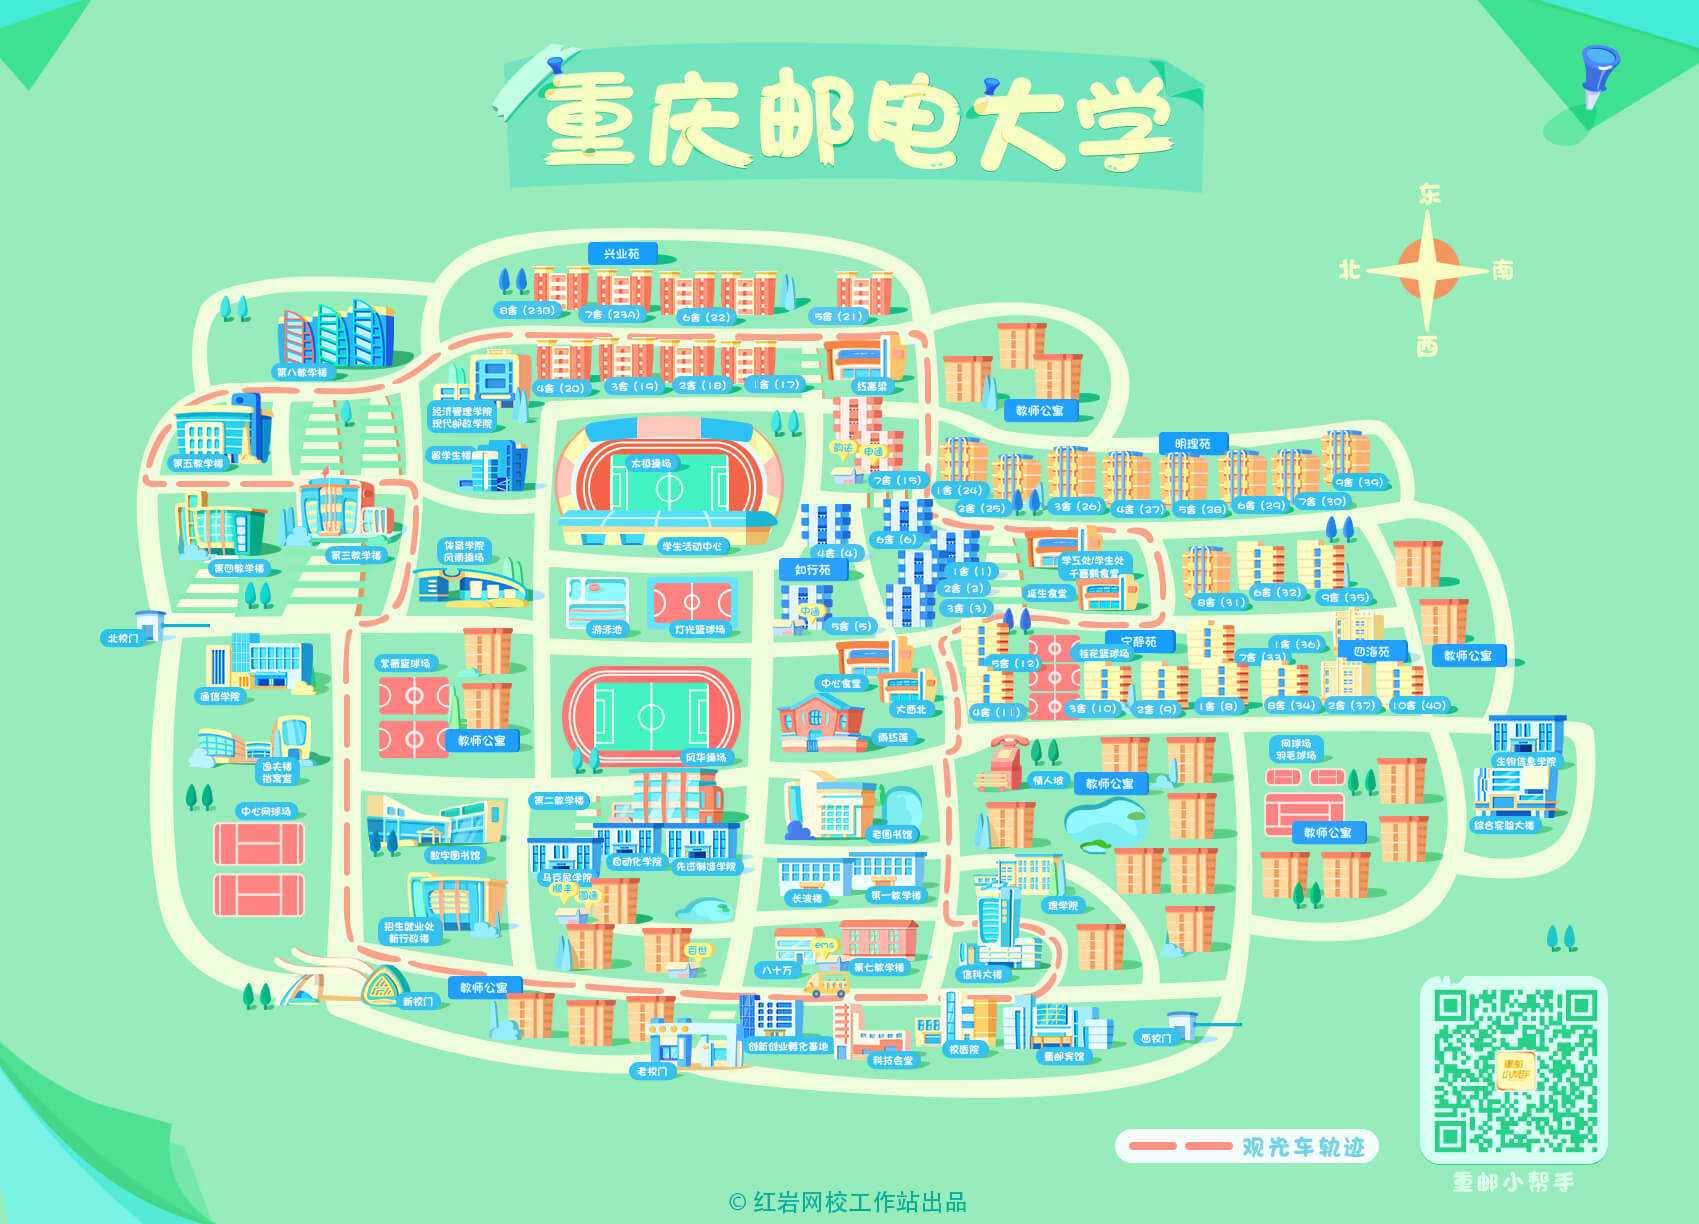
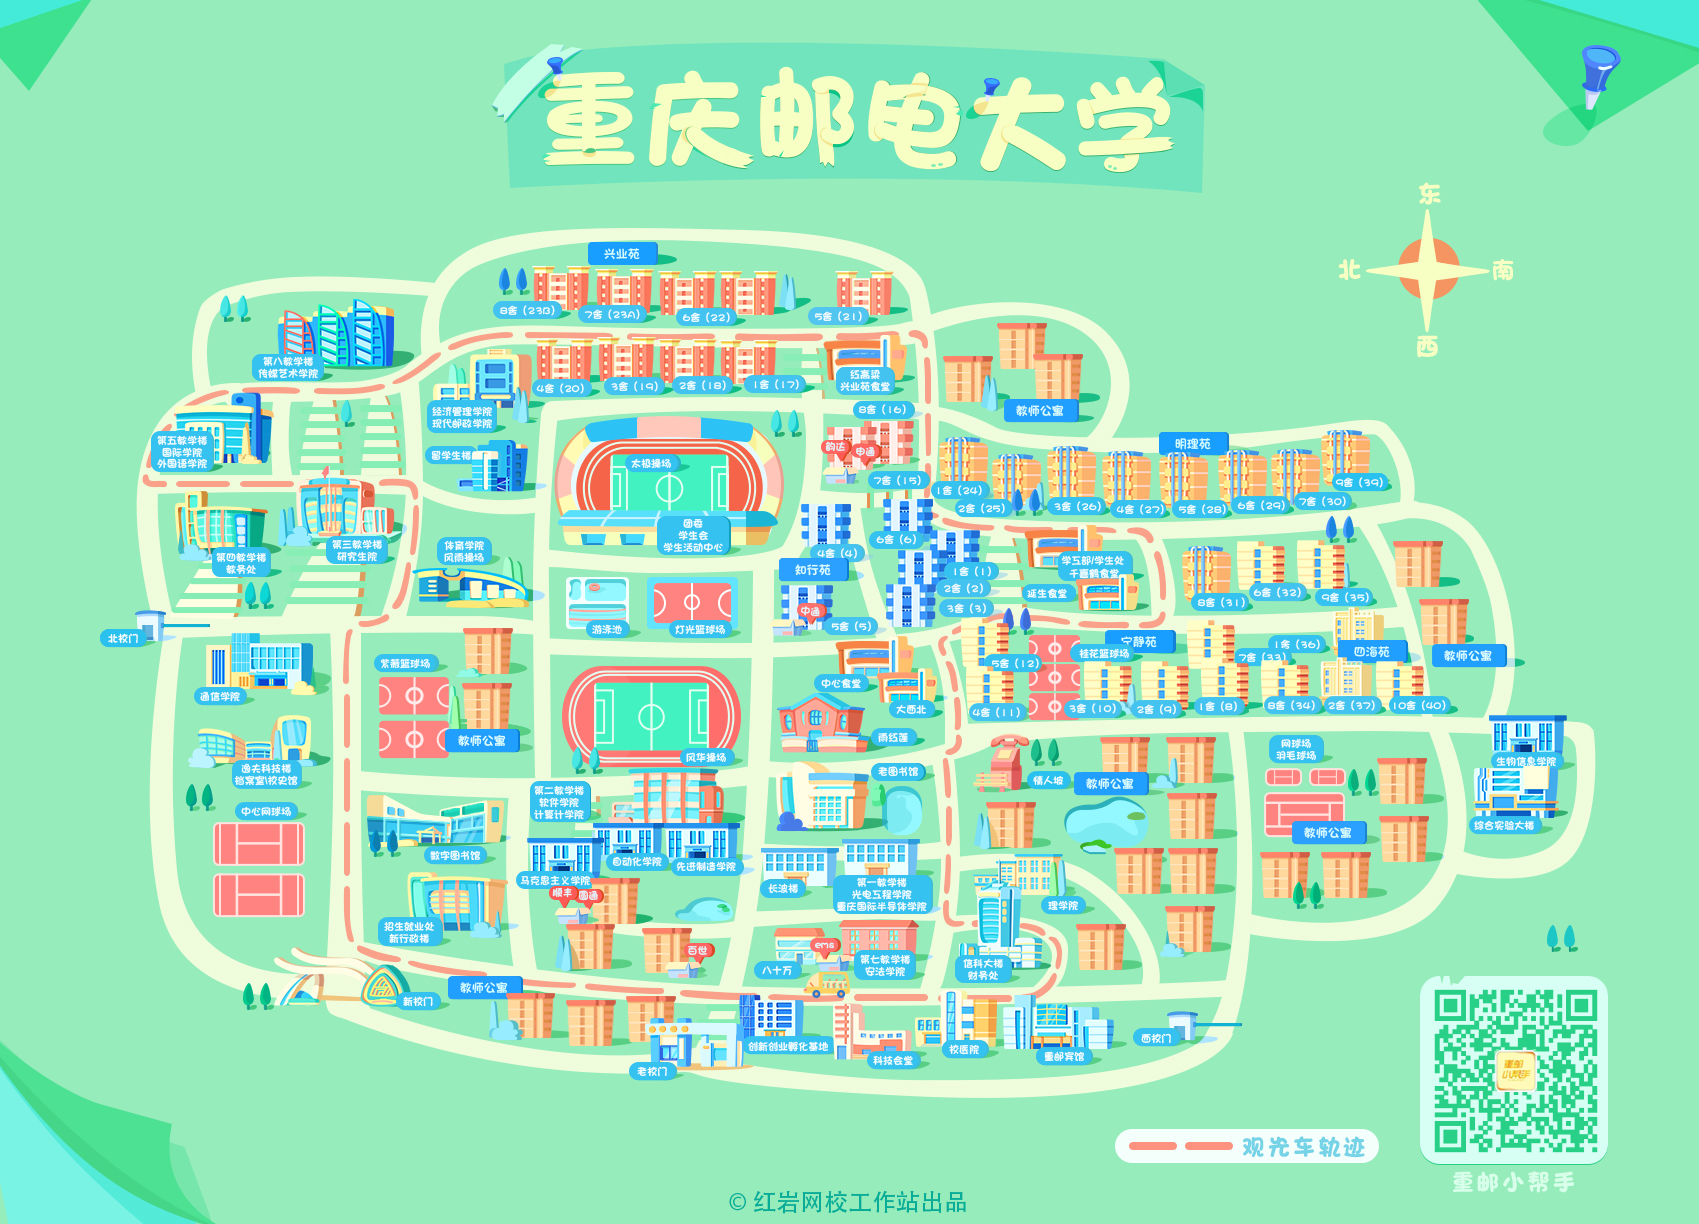
youxiu

diff --git a/src/components/Map/Map.vue b/src/components/Map/Map.vue
@@ -182,7 +182,7 @@ export default {
         },
         {
           name: '16栋',
-          position: [338, 162],
+          position: [348, 143],
         },
         {
           name: '24栋',
@@ -301,6 +301,10 @@ export default {
           position: [325, 119],
         },
         {
+          name: '兴业苑食堂',
+          position: [325, 119],
+        },
+        {
           name: '理学院',
           position: [371, 278],
         },
@@ -342,6 +346,14 @@ export default {
         },
         {
           name: '红岩网校',
+          position: [249, 169],
+        },
+        {
+          name: '团委',
+          position: [249, 169],
+        },
+        {
+          name: '学生会',
           position: [249, 169],
         },
         {
@@ -870,7 +882,7 @@ export default {
       }
     },
     addFlag(position) {
-      // console.log(position.left, position.top)
+      console.log(position.left, position.top)
       // 防止重复
       if (this.flags.some(flag => flag.left === position.left && flag.top === position.top)) return
       this.flags.push(position)

diff --git a/src/components/base/Carousel.vue b/src/components/base/Carousel.vue
@@ -2,11 +2,12 @@
   <div class="all">
     <lunbo :imglist="img.map(img => ({ imgsrc: img }))" class="lunbo" />
     <div class="info">
-        <div>{{canteen.title}}：</div>
+        <div class="tit">{{canteen.title}}：</div>
         <p>
           {{canteen.content[0]}}<br />
           {{canteen.content[1]}}<br />
           {{canteen.content[2]}}</p>
+        <div class="from">图片来源于宿管会</div>
     </div>
   </div>
 </template>
@@ -110,18 +111,27 @@ export default {
     top: 338px;
     text-align: left;
     margin: 0 auto;
-    div {
+    .tit {
         font-size: 18px;
         color: rgb(35, 72, 179);
         margin-bottom: 20px;
     }
     p {
       height: auto;
-      padding-bottom: 10px;
-      position: relative;
       font-size: 14px;
       font-family: '微软雅黑';
       color: #124ce3;
+      padding-bottom: 10px;
+    }
+    .from {
+      position: absolute;
+      bottom: 7px;
+      left: 0;
+      right: 0;
+      text-align: center;
+      font-size: 14px;
+      font-family: '微软雅黑';
+      color: #fff;
     }
 }
 </style>

diff --git a/src/views/raider/Public.vue b/src/views/raider/Public.vue
@@ -42,6 +42,11 @@
                     <span>重庆邮电大学就业中心</span>
                     <p>重庆邮电大学就业中心官方微信，实时发布校内招聘信息，就业动态等相关信息。</p>
                 </li>
+                <li class="content">
+                    <div class="img9"></div>
+                    <span>重庆邮电大学宿管会</span>
+                    <p>面向全校学生，提供最优质的服务和最新的校园动态，及时为同学推送有关宿舍的信息以及通知，为同学解决有关宿舍方面的问题，展现宿舍风采。</p>
+                </li>
       </div>
     </scroll-bar>
   </Frame>
@@ -167,6 +172,15 @@ export default {
   height: 204px;
   margin-top: 20px;
     background-image: url(../../assets/img/Strategy/gongzhonghao/img8.jpg);
+  background-size: 100% 100%;
+}
+.img9 {
+  margin: 27px;
+  border: 2px solid #0235c7;
+  width: 204px;
+  height: 204px;
+  margin-top: 20px;
+    background-image: url(../../assets/img/Strategy/gongzhonghao/img9.jpg);
   background-size: 100% 100%;
 }
   }

diff --git a/public/index.html b/public/index.html
@@ -7,15 +7,7 @@
     <link rel="icon" href="<%= BASE_URL %>favicon.ico">
     <link rel="preload" href="font.woff2" as="font">
     <title>邮你造未来 | 2019 迎新网</title>
-    <!-- Global site tag (gtag.js) - Google Analytics -->
-    <script async src="https://www.googletagmanager.com/gtag/js?id=UA-145852410-2"></script>
-    <script>
-      window.dataLayer = window.dataLayer || [];
-      function gtag(){dataLayer.push(arguments);}
-      gtag('js', new Date());
-
-      gtag('config', 'UA-145852410-2');
-    </script>
+    <script type="text/javascript" src="http://tajs.qq.com/stats?sId=66465052" charset="UTF-8"></script>
     <script>
       if (/( (iPhone) | (Android) )/.test(navigator.userAgent)) {
         window.location.href = 'https://wx.idsbllp.cn/game/welcome2019/mobile'

diff --git a/src/views/data/Source.vue b/src/views/data/Source.vue
@@ -13,6 +13,7 @@
       <scroll-bar class="scroll-bar">
         <div class="chart-wrapper">
           <v-chart :options="opt" />
+          <div class="from">数据来源于招生办</div>
         </div>
       </scroll-bar>
     <!-- </div> -->
@@ -192,9 +193,20 @@ export default {
   background: #b0d7ff;
 }
 .chart-wrapper {
+  position: relative;
   width: 700px;
   height: 1500px;
   margin: 0 auto;
+  .from {
+    position: absolute;
+    bottom: 10px;
+    left: 0;
+    right: 0;
+    text-align: center;
+    font-size: 14px;
+    font-family: '微软雅黑';
+    color: #fff;
+  }
 }
 .echarts {
   width: 100%;

diff --git a/src/views/data/Ratio.vue b/src/views/data/Ratio.vue
@@ -22,6 +22,7 @@
       <div class="chart-wrapper">
         <v-chart :options="opt" />
       </div>
+      <div class="from">数据来源于招生办</div>
     </div>
   </Frame>
 </template>
@@ -211,6 +212,16 @@ export default {
       height: 16px;
       background: #ff9dba;
     }
+  }
+  .from {
+    position: absolute;
+    bottom: 4px;
+    left: 0;
+    right: 0;
+    text-align: center;
+    font-size: 14px;
+    font-family: '微软雅黑';
+    color: #fff;
   }
   .chart-wrapper {
     width: 320px;
